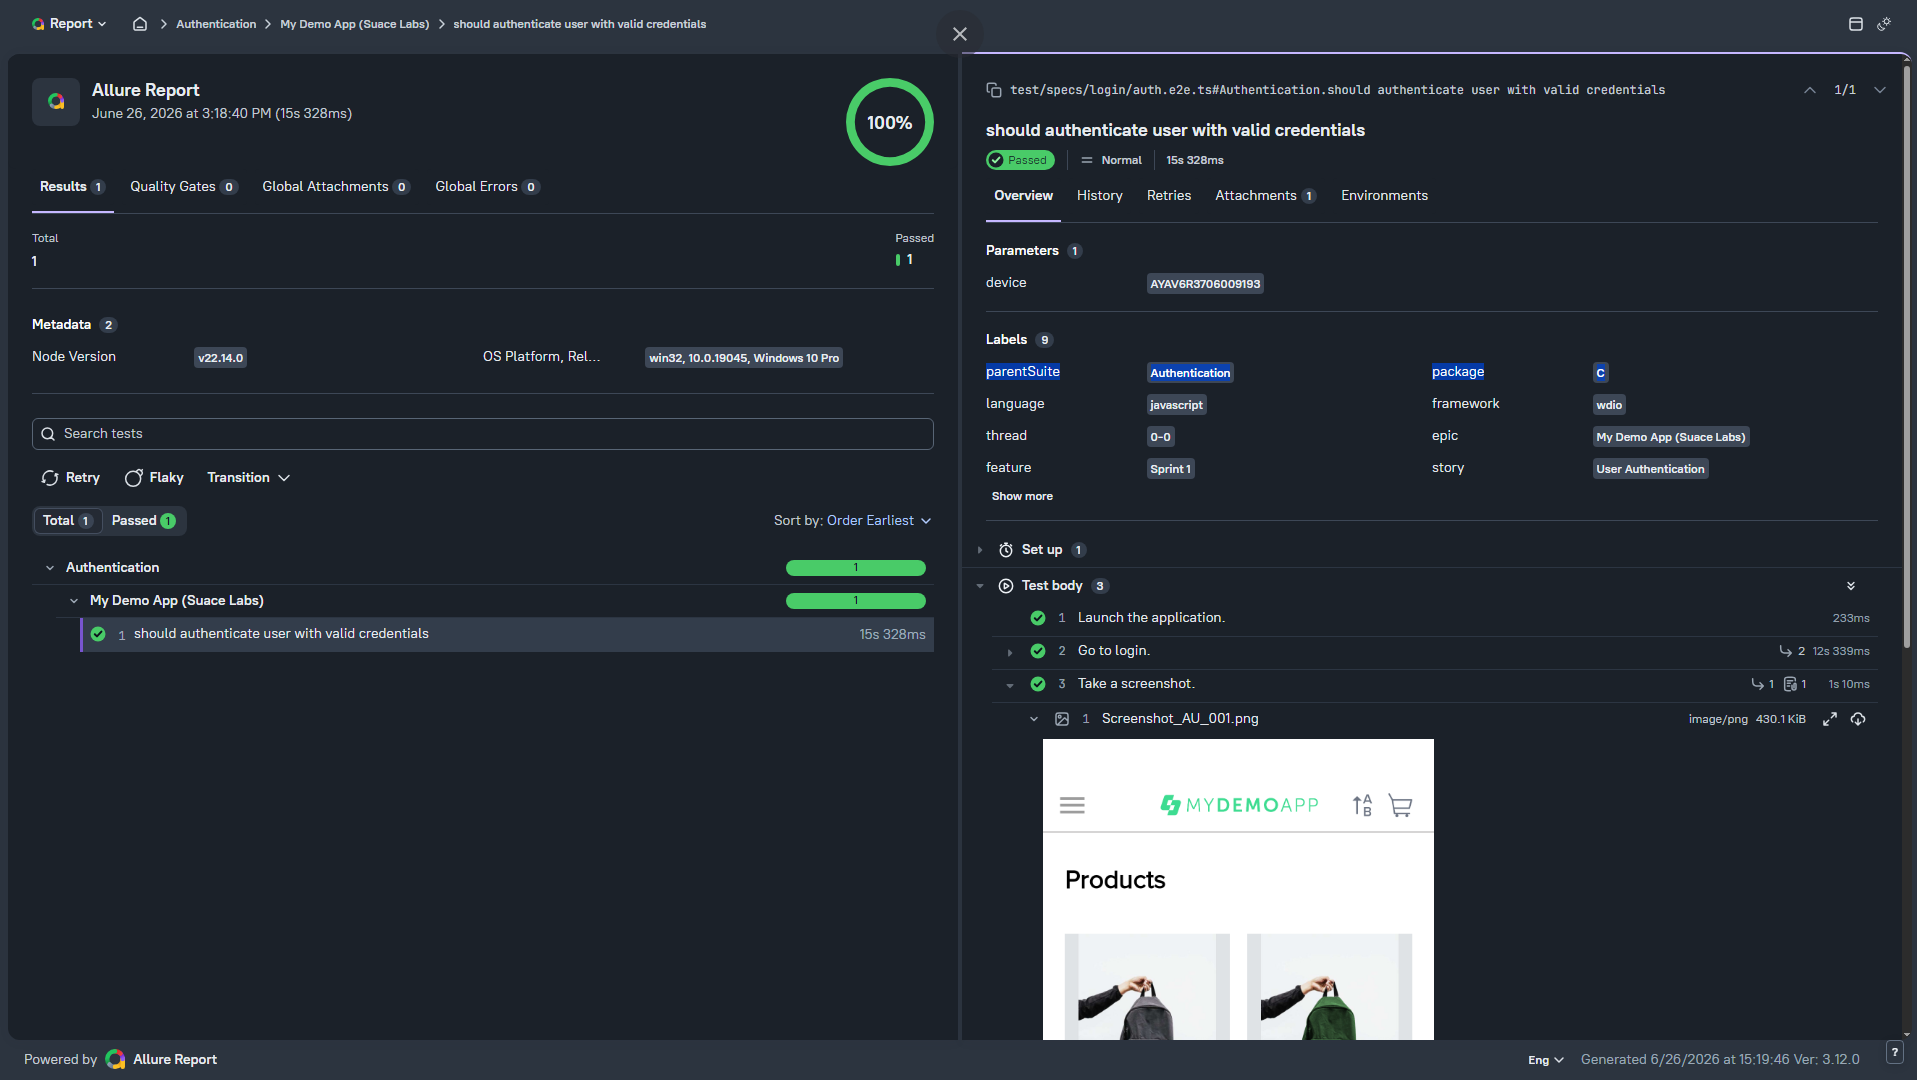
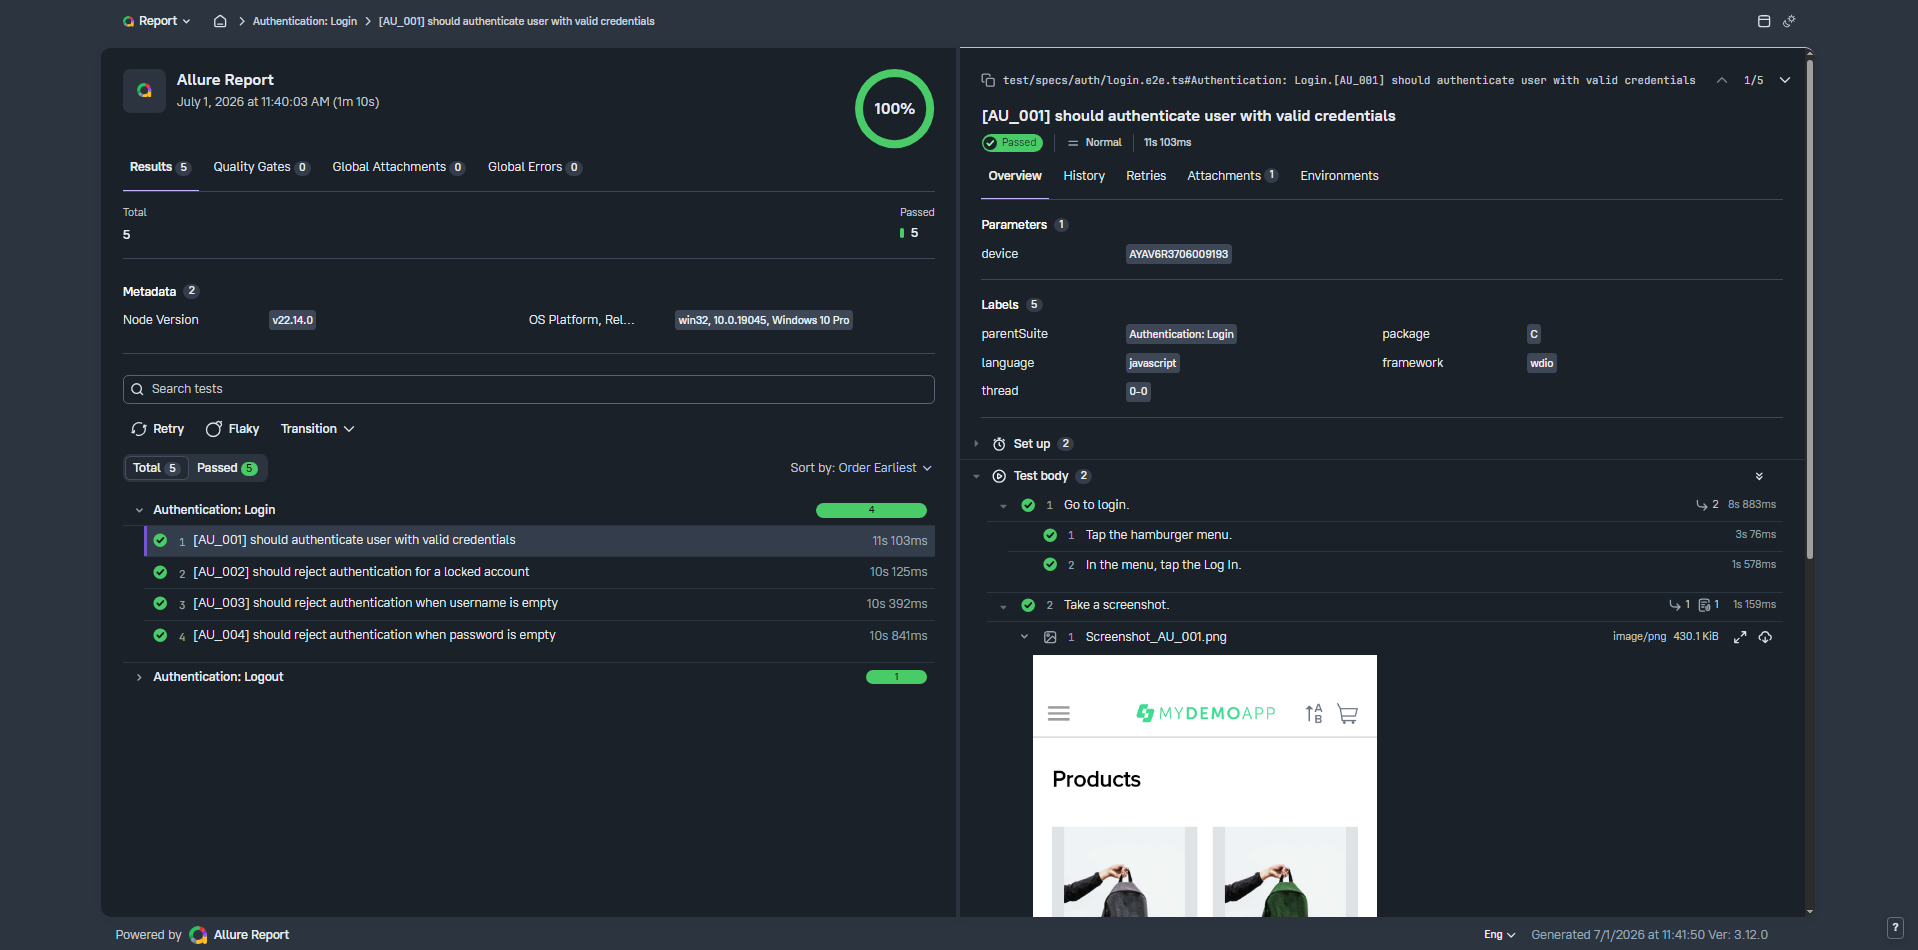
docs: updated readme file

diff --git a/README.md b/README.md
@@ -7,19 +7,32 @@ The project includes sample automated tests for the **My Demo App (Sauce Labs)**
 ### Tools & Frameworks Used
 
 1. **Appium** – Mobile automation framework used to interact with mobile applications on real devices and emulators for both Android and iOS.
+
 2. **UIAutomator2** – Appium's Android automation driver that enables reliable interaction with native Android applications by leveraging Google's UIAutomator2 framework.
+
 3. **Appium Inspector** – A visual tool for exploring mobile app elements, inspecting UI components, and generating locator strategies to support automation script development.
+
 4. **WebdriverIO** – Test automation framework that provides a clean and efficient way to write, organize, and run automated scripts for mobile testing.
-5. **Mocha** – Test runner used to structure and execute test cases in a readable, BDD/TDD-style format.
-6. **Allure Report 3** – Reporting tool that generates detailed, visual test reports with steps, attachments, and test history to track automation quality.
-7. **GitHub Actions** – CI/CD automation used to generate and deploy Allure reports directly to GitHub Pages for easy access and sharing.
+
+5. **Page Object Model (POM)** – Design pattern used to improve test maintainability and scalability by separating test logic from UI element locators and page actions. Each application screen is represented as a reusable page class containing its elements and interaction methods.
+
+6. **Mocha** – Test runner used to structure and execute test cases in a readable, BDD/TDD-style format.
+
+7. **Custom Logger** – Logging utility implemented with silent mode support to control console output during test execution. It provides structured execution logs, captures important test events, improves debugging, tracks failures, and allows logs to be stored or reviewed without displaying unnecessary information in the command line interface.
+
+8. **Allure Report 3** – Reporting tool that generates detailed, visual test reports with steps, attachments, and test history to track automation quality.
+
+9. **GitHub Actions** – CI/CD automation used to generate and deploy Allure reports directly to GitHub Pages for easy access and sharing.
 
 
 ## 📱 Application Under Test
 **My Demo App (Sauce Labs)**
 
-
 ![2FA Authenticator Screenshot](docs/allure-screenshot.png)
+
+**Custom Logger: Command Line Interface (CLI)**
+
+![2FA Authenticator Screenshot](docs/custom-logger-cli.png)
 
 
 ## Project Structure